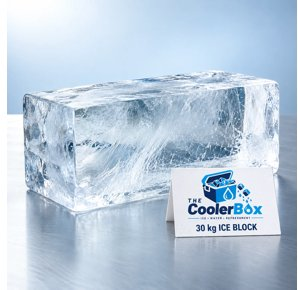
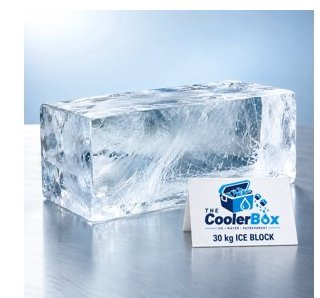
FEAT:use blocks-product.jpg for Gourmet Ice, Slushies, and Ice Lollies

Changed region(s): [[0.0, 0.0, 0.9966, 1.0], [0.8456, 0.5586, 0.8758, 0.5897], [0.3624, 0.8069, 0.3926, 0.8379]]

diff --git a/static/js/order.js b/static/js/order.js
@@ -23,7 +23,7 @@ estimate={items,lines,offer,total,productCents:unknown?null:subtotal,delivery};w
 function applyOffer(){const o=selectedOffer();$('offer-note').textContent=o?'This bundle uses fixed contents and its published total. Choose individual products to change quantities.':'';if(o){for(const p of products){const i=o.items.find(i=>i.id===p.id);document.getElementById('choose-'+p.id).checked=!!i;document.getElementById('qty-'+p.id).value=i?.quantity||1}}update()}
 try{
 [products,business,offers,settings]=await Promise.all([CB.api('/api/catalogue'),CB.api('/api/business'),CB.api('/api/showcase'),CB.api('/api/settings')]);offers=offers.filter(p=>CB.active(p));products=iceOrderVariants(products);
-let lastGroup='',cubeGroup=null;for(const p of products){const group=CB.productGroup(p.id);if(group!==lastGroup){const heading=n('h3',group,'product-group-heading');$('products').append(heading);lastGroup=group;}if(p.iceType==='regular'){cubeGroup=n('fieldset',null,'order-cube-group');cubeGroup.append(n('legend',p.baseName+' — select one or both types'));$('products').append(cubeGroup)}const row=n('div',null,'product-row'),label=n('label',null,'check'),check=n('input');check.id='choose-'+p.id;check.type='checkbox';check.disabled=p.availability==='sold-out';label.append(check,document.createTextNode(p.name));const image=n('img',null,'order-thumb');image.src=p.image||(p.id==='cups500'?'/assets/cups-product.webp':p.iceType==='gourmet'?'/assets/gourmet-reference.jpeg':p.id==='water330'?'/assets/water330-product.svg':'/assets/'+(p.baseId||p.id)+'-product.webp');image.alt=p.image?p.name:'Illustrative '+p.name+' mock-up';image.loading='lazy';image.width=72;image.height=72;row.style.cssText='position:relative!important;min-height:100px!important;padding:'+(p.iceType?'14px 14px 14px 92px':'16px 14px 16px 98px')+'!important;';image.style.cssText='width:72px!important;height:72px!important;max-width:72px!important;max-height:72px!important;object-fit:contain!important;border-radius:8px!important;background:#ffffff!important;border:1px solid #d2e4f0!important;padding:4px!important;box-shadow:0 2px 6px rgba(0,79,132,0.06)!important;display:block!important;position:absolute!important;left:'+(p.iceType?'10px':'12px')+'!important;top:14px!important;margin:0!important;';row.append(image,label,n('p',`${p.size} ${p.sizeUnit} / ${p.unit} · ${p.availability.replaceAll('-',' ')} · book strictly 48–72 hours ahead`,'small'));const l=n('label',p.orderMultiple>1?'Bottles — packs of '+p.orderMultiple+', minimum '+p.minOrder:'Number of '+p.unit+'(s) per delivery');l.htmlFor='qty-'+p.id;const qty=n('input');qty.id='qty-'+p.id;qty.type='number';qty.min=String(p.minOrder||1);qty.max=String(p.maxPerOrder||1000000);qty.step=String(p.orderMultiple||1);qty.value=String(p.minOrder||1);qty.disabled=p.availability==='sold-out';row.append(l,qty);if(p.maxPerOrder||p.dailyCapacity)row.append(n('p',(p.maxPerOrder?'Maximum '+p.maxPerOrder+' units per enquiry. ':'')+(p.dailyCapacity?'Daily request intake cap: '+p.dailyCapacity+' units.':''),'small'));if(p.iceType)cubeGroup.append(row);else $('products').append(row);qty.oninput=()=>{check.checked=true;$('offer').value='';update()};check.onchange=()=>{$('offer').value='';update()}}
+let lastGroup='',cubeGroup=null;for(const p of products){const group=CB.productGroup(p.id);if(group!==lastGroup){const heading=n('h3',group,'product-group-heading');$('products').append(heading);lastGroup=group;}if(p.iceType==='regular'){cubeGroup=n('fieldset',null,'order-cube-group');cubeGroup.append(n('legend',p.baseName+' — select one or both types'));$('products').append(cubeGroup)}const row=n('div',null,'product-row'),label=n('label',null,'check'),check=n('input');check.id='choose-'+p.id;check.type='checkbox';check.disabled=p.availability==='sold-out';label.append(check,document.createTextNode(p.name));const image=n('img',null,'order-thumb');image.src=p.image||(p.id==='cups500'?'/assets/cups-product.webp':p.iceType==='gourmet'?'/assets/blocks-product.jpg':p.id==='water330'?'/assets/water330-product.svg':'/assets/'+(p.baseId||p.id)+'-product.webp');image.alt=p.image?p.name:'Illustrative '+p.name+' mock-up';image.loading='lazy';image.width=72;image.height=72;row.style.cssText='position:relative!important;min-height:100px!important;padding:'+(p.iceType?'14px 14px 14px 92px':'16px 14px 16px 98px')+'!important;';image.style.cssText='width:72px!important;height:72px!important;max-width:72px!important;max-height:72px!important;object-fit:contain!important;border-radius:8px!important;background:#ffffff!important;border:1px solid #d2e4f0!important;padding:4px!important;box-shadow:0 2px 6px rgba(0,79,132,0.06)!important;display:block!important;position:absolute!important;left:'+(p.iceType?'10px':'12px')+'!important;top:14px!important;margin:0!important;';row.append(image,label,n('p',`${p.size} ${p.sizeUnit} / ${p.unit} · ${p.availability.replaceAll('-',' ')} · book strictly 48–72 hours ahead`,'small'));const l=n('label',p.orderMultiple>1?'Bottles — packs of '+p.orderMultiple+', minimum '+p.minOrder:'Number of '+p.unit+'(s) per delivery');l.htmlFor='qty-'+p.id;const qty=n('input');qty.id='qty-'+p.id;qty.type='number';qty.min=String(p.minOrder||1);qty.max=String(p.maxPerOrder||1000000);qty.step=String(p.orderMultiple||1);qty.value=String(p.minOrder||1);qty.disabled=p.availability==='sold-out';row.append(l,qty);if(p.maxPerOrder||p.dailyCapacity)row.append(n('p',(p.maxPerOrder?'Maximum '+p.maxPerOrder+' units per enquiry. ':'')+(p.dailyCapacity?'Daily request intake cap: '+p.dailyCapacity+' units.':''),'small'));if(p.iceType)cubeGroup.append(row);else $('products').append(row);qty.oninput=()=>{check.checked=true;$('offer').value='';update()};check.onchange=()=>{$('offer').value='';update()}}
 for(const o of offers){const opt=n('option',o.title+' — '+money(o.bundlePrice));opt.value=o.id;$('offer').append(opt)}
 const params=new URLSearchParams(location.search),product=params.get('product');if(params.has('occasion')){$('category').value='Events & celebrations';$('notes').placeholder='Occasion (funeral, birthday, anniversary or other), guest numbers, bottle presentation and any label request.';}const selectedKey=iceSelectionKey(product,params.get('iceType'));if(product&&products.some(p=>p.id===selectedKey&&p.availability!=='sold-out'))document.getElementById('choose-'+selectedKey).checked=true;
 if(params.has('draft')){try{const d=JSON.parse(sessionStorage.getItem('coolerboxDraft')||'null');if(d){for(const item of d.items||[]){const p=products.find(p=>p.id===iceSelectionKey(item.id,item.iceType));if(p&&p.availability!=='sold-out'){document.getElementById('choose-'+p.id).checked=true;document.getElementById('qty-'+p.id).value=item.quantity}}for(const key of ['category','frequency','date','notes'])if(d[key])$(key).value=d[key]}}catch{}}

diff --git a/static/order.js b/static/order.js
@@ -23,7 +23,7 @@ estimate={items,lines,offer,total,productCents:unknown?null:subtotal,delivery};w
 function applyOffer(){const o=selectedOffer();$('offer-note').textContent=o?'This bundle uses fixed contents and its published total. Choose individual products to change quantities.':'';if(o){for(const p of products){const i=o.items.find(i=>i.id===p.id);document.getElementById('choose-'+p.id).checked=!!i;document.getElementById('qty-'+p.id).value=i?.quantity||1}}update()}
 try{
 [products,business,offers,settings]=await Promise.all([CB.api('/api/catalogue'),CB.api('/api/business'),CB.api('/api/showcase'),CB.api('/api/settings')]);offers=offers.filter(p=>CB.active(p));products=iceOrderVariants(products);
-let lastGroup='',cubeGroup=null;for(const p of products){const group=CB.productGroup(p.id);if(group!==lastGroup){const heading=n('h3',group,'product-group-heading');$('products').append(heading);lastGroup=group;}if(p.iceType==='regular'){cubeGroup=n('fieldset',null,'order-cube-group');cubeGroup.append(n('legend',p.baseName+' — select one or both types'));$('products').append(cubeGroup)}const row=n('div',null,'product-row'),label=n('label',null,'check'),check=n('input');check.id='choose-'+p.id;check.type='checkbox';check.disabled=p.availability==='sold-out';label.append(check,document.createTextNode(p.name));const image=n('img',null,'order-thumb');image.src=p.image||(p.id==='cups500'?'/assets/cups-product.webp':p.iceType==='gourmet'?'/assets/gourmet-reference.jpeg':p.id==='water330'?'/assets/water330-product.svg':'/assets/'+(p.baseId||p.id)+'-product.webp');image.alt=p.image?p.name:'Illustrative '+p.name+' mock-up';image.loading='lazy';image.width=72;image.height=72;row.style.cssText='position:relative!important;min-height:100px!important;padding:'+(p.iceType?'14px 14px 14px 92px':'16px 14px 16px 98px')+'!important;';image.style.cssText='width:72px!important;height:72px!important;max-width:72px!important;max-height:72px!important;object-fit:contain!important;border-radius:8px!important;background:#ffffff!important;border:1px solid #d2e4f0!important;padding:4px!important;box-shadow:0 2px 6px rgba(0,79,132,0.06)!important;display:block!important;position:absolute!important;left:'+(p.iceType?'10px':'12px')+'!important;top:14px!important;margin:0!important;';row.append(image,label,n('p',`${p.size} ${p.sizeUnit} / ${p.unit} · ${p.availability.replaceAll('-',' ')} · book strictly 48–72 hours ahead`,'small'));const l=n('label',p.orderMultiple>1?'Bottles — packs of '+p.orderMultiple+', minimum '+p.minOrder:'Number of '+p.unit+'(s) per delivery');l.htmlFor='qty-'+p.id;const qty=n('input');qty.id='qty-'+p.id;qty.type='number';qty.min=String(p.minOrder||1);qty.max=String(p.maxPerOrder||1000000);qty.step=String(p.orderMultiple||1);qty.value=String(p.minOrder||1);qty.disabled=p.availability==='sold-out';row.append(l,qty);if(p.maxPerOrder||p.dailyCapacity)row.append(n('p',(p.maxPerOrder?'Maximum '+p.maxPerOrder+' units per enquiry. ':'')+(p.dailyCapacity?'Daily request intake cap: '+p.dailyCapacity+' units.':''),'small'));if(p.iceType)cubeGroup.append(row);else $('products').append(row);qty.oninput=()=>{check.checked=true;$('offer').value='';update()};check.onchange=()=>{$('offer').value='';update()}}
+let lastGroup='',cubeGroup=null;for(const p of products){const group=CB.productGroup(p.id);if(group!==lastGroup){const heading=n('h3',group,'product-group-heading');$('products').append(heading);lastGroup=group;}if(p.iceType==='regular'){cubeGroup=n('fieldset',null,'order-cube-group');cubeGroup.append(n('legend',p.baseName+' — select one or both types'));$('products').append(cubeGroup)}const row=n('div',null,'product-row'),label=n('label',null,'check'),check=n('input');check.id='choose-'+p.id;check.type='checkbox';check.disabled=p.availability==='sold-out';label.append(check,document.createTextNode(p.name));const image=n('img',null,'order-thumb');image.src=p.image||(p.id==='cups500'?'/assets/cups-product.webp':p.iceType==='gourmet'?'/assets/blocks-product.jpg':p.id==='water330'?'/assets/water330-product.svg':'/assets/'+(p.baseId||p.id)+'-product.webp');image.alt=p.image?p.name:'Illustrative '+p.name+' mock-up';image.loading='lazy';image.width=72;image.height=72;row.style.cssText='position:relative!important;min-height:100px!important;padding:'+(p.iceType?'14px 14px 14px 92px':'16px 14px 16px 98px')+'!important;';image.style.cssText='width:72px!important;height:72px!important;max-width:72px!important;max-height:72px!important;object-fit:contain!important;border-radius:8px!important;background:#ffffff!important;border:1px solid #d2e4f0!important;padding:4px!important;box-shadow:0 2px 6px rgba(0,79,132,0.06)!important;display:block!important;position:absolute!important;left:'+(p.iceType?'10px':'12px')+'!important;top:14px!important;margin:0!important;';row.append(image,label,n('p',`${p.size} ${p.sizeUnit} / ${p.unit} · ${p.availability.replaceAll('-',' ')} · book strictly 48–72 hours ahead`,'small'));const l=n('label',p.orderMultiple>1?'Bottles — packs of '+p.orderMultiple+', minimum '+p.minOrder:'Number of '+p.unit+'(s) per delivery');l.htmlFor='qty-'+p.id;const qty=n('input');qty.id='qty-'+p.id;qty.type='number';qty.min=String(p.minOrder||1);qty.max=String(p.maxPerOrder||1000000);qty.step=String(p.orderMultiple||1);qty.value=String(p.minOrder||1);qty.disabled=p.availability==='sold-out';row.append(l,qty);if(p.maxPerOrder||p.dailyCapacity)row.append(n('p',(p.maxPerOrder?'Maximum '+p.maxPerOrder+' units per enquiry. ':'')+(p.dailyCapacity?'Daily request intake cap: '+p.dailyCapacity+' units.':''),'small'));if(p.iceType)cubeGroup.append(row);else $('products').append(row);qty.oninput=()=>{check.checked=true;$('offer').value='';update()};check.onchange=()=>{$('offer').value='';update()}}
 for(const o of offers){const opt=n('option',o.title+' — '+money(o.bundlePrice));opt.value=o.id;$('offer').append(opt)}
 const params=new URLSearchParams(location.search),product=params.get('product');if(params.has('occasion')){$('category').value='Events & celebrations';$('notes').placeholder='Occasion (funeral, birthday, anniversary or other), guest numbers, bottle presentation and any label request.';}const selectedKey=iceSelectionKey(product,params.get('iceType'));if(product&&products.some(p=>p.id===selectedKey&&p.availability!=='sold-out'))document.getElementById('choose-'+selectedKey).checked=true;
 if(params.has('draft')){try{const d=JSON.parse(sessionStorage.getItem('coolerboxDraft')||'null');if(d){for(const item of d.items||[]){const p=products.find(p=>p.id===iceSelectionKey(item.id,item.iceType));if(p&&p.availability!=='sold-out'){document.getElementById('choose-'+p.id).checked=true;document.getElementById('qty-'+p.id).value=item.quantity}}for(const key of ['category','frequency','date','notes'])if(d[key])$(key).value=d[key]}}catch{}}

diff --git a/templates/shop.html b/templates/shop.html
@@ -198,7 +198,7 @@
       <!-- Gourmet Ice -->
       <article class="browse-product-card" data-cat="ice">
         <div class="browse-card-img-wrap">
-          <img src="/assets/gourmet-reference.jpeg" alt="Gourmet Ice" loading="lazy">
+          <img src="/assets/blocks-product.jpg" alt="Gourmet Ice" loading="lazy">
         </div>
         <div class="browse-card-info">
           <h3 class="browse-card-title">Gourmet Ice</h3>
@@ -213,7 +213,7 @@
       <!-- CoolerBox Slushies -->
       <article class="browse-product-card" data-cat="cups">
         <div class="browse-card-img-wrap">
-          <img src="/assets/slushies-product.png" alt="CoolerBox Slushies" loading="lazy">
+          <img src="/assets/blocks-product.jpg" alt="CoolerBox Slushies" loading="lazy">
         </div>
         <div class="browse-card-info">
           <h3 class="browse-card-title">CoolerBox Slushies</h3>
@@ -228,7 +228,7 @@
       <!-- CoolerBox Ice Lollies -->
       <article class="browse-product-card" data-cat="cups">
         <div class="browse-card-img-wrap">
-          <img src="/assets/icelollies-product.png" alt="CoolerBox Ice Lollies" loading="lazy">
+          <img src="/assets/blocks-product.jpg" alt="CoolerBox Ice Lollies" loading="lazy">
         </div>
         <div class="browse-card-info">
           <h3 class="browse-card-title">CoolerBox Ice Lollies</h3>

diff --git a/app/seed_data.py b/app/seed_data.py
@@ -38,7 +38,7 @@ def seed_database() -> None:
             "bulkMinimum": 30,
             "availability": "available",
             "leadDays": 1,
-            "image": "/assets/slushies-product.png",
+            "image": "/assets/blocks-product.jpg",
             "samplePrice": False,
             "salesRevision": 1,
             "minOrder": 1,
@@ -59,7 +59,7 @@ def seed_database() -> None:
             "bulkMinimum": 50,
             "availability": "available",
             "leadDays": 1,
-            "image": "/assets/icelollies-product.png",
+            "image": "/assets/blocks-product.jpg",
             "samplePrice": False,
             "salesRevision": 1,
             "minOrder": 10,
@@ -267,7 +267,7 @@ def seed_database() -> None:
                 "bulkMinimum": 30,
                 "availability": "available",
                 "leadDays": 1,
-                "image": "/assets/slushies-product.png",
+                "image": "/assets/blocks-product.jpg",
                 "samplePrice": False,
                 "salesRevision": 1,
                 "minOrder": 1,
@@ -287,7 +287,7 @@ def seed_database() -> None:
                 "bulkMinimum": 50,
                 "availability": "available",
                 "leadDays": 1,
-                "image": "/assets/icelollies-product.png",
+                "image": "/assets/blocks-product.jpg",
                 "samplePrice": False,
                 "salesRevision": 1,
                 "minOrder": 10,
